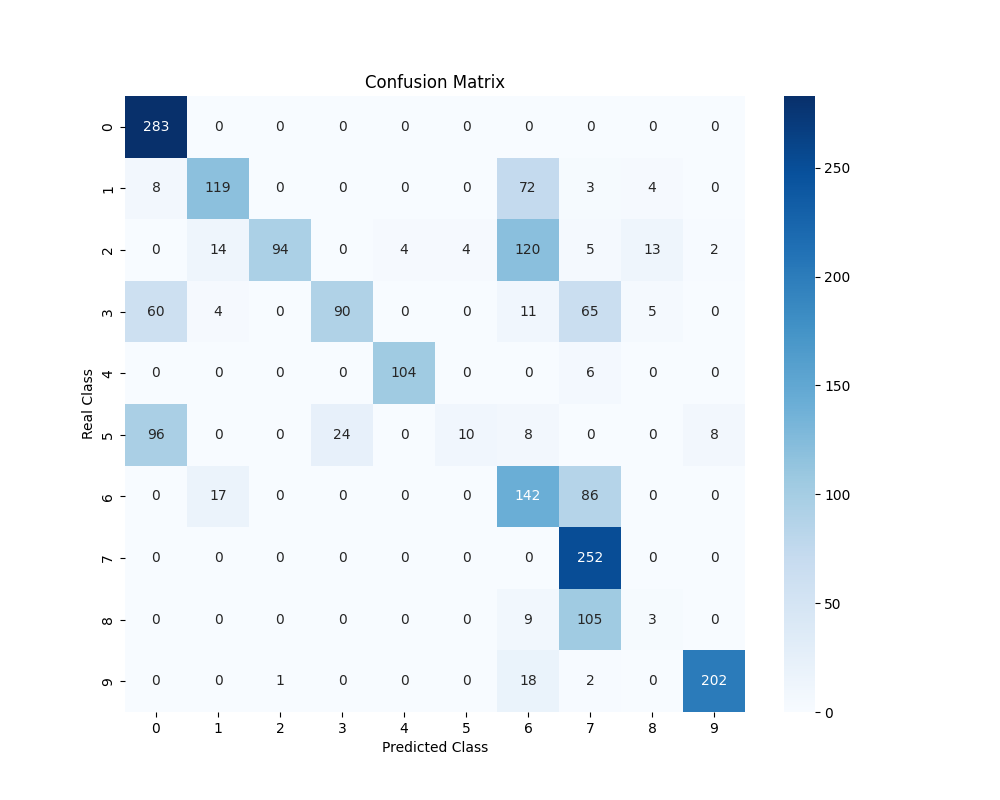
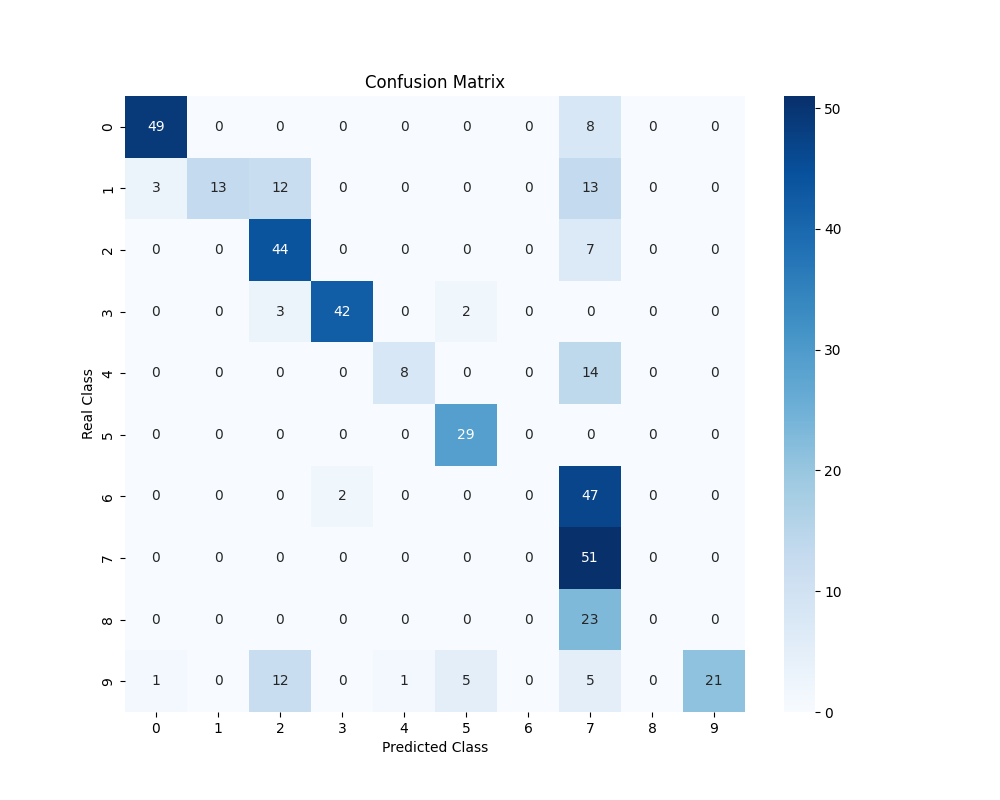
add summary, results, discussion and figures

diff --git a/project_report.md b/project_report.md
@@ -1,9 +1,8 @@
 # Horse Face Recognition
 
 ## Abstract
-- Brief overview of the project.
-- Key objectives, methods, and outcomes.
-- Summary of results and conclusions.
+- In this study horses are classified based on the face, to make RFID scanner obsolete.
+- The objective is to identify horses from our client Voskamp. This is done with a pre-trained Resnet CNN. The outcome is an accuracy of 62%. Based on CAM heatmaps it looks like the background is mostly responsible for the prediction.
 
 ---
 
@@ -60,6 +59,7 @@ Also on horse shows, it would be more beautiful to have horses without RFID tags
 - No Data augmentation techniques, such as flipping or rotation are used.
 - Data splitting strategy: 64% training, 16% validation, 20% test. Stratified.
 - Focused the get the models working on the first part (10 horses).
+- To speed up modelling, only 20% of stills are used.
 
 ### 3.5 Modeling
 - Used both Custom model (~ 8 layers) and ResNet model.
@@ -69,7 +69,9 @@ Also on horse shows, it would be more beautiful to have horses without RFID tags
   - Optimizer: using an Adam (Adaptive Moment Estimation) optimizer
   - Learning rate: Default learning rate of 0.001  (e.g., optimizer, learning rate, loss function).
   - Loss-function: Categorical crossentropy (ideal for multi-class classifiction)
-- Hyperparameter tuning: tried batch-size 32 up until 128
+- Hyperparameter tuning:
+  - tried batch-size 32 up until 128
+  - Used pre-trained model 'ImageNet'
 
 ### 3.6 Evaluation
 - Metrics used to evaluate performance: accuracy, precision.
@@ -92,34 +94,30 @@ Also on horse shows, it would be more beautiful to have horses without RFID tags
 ## 4. Results and Discussion
 
 ### 4.1 Results
-- Tabular and graphical representation of performance metrics.
-
+- Training Accuracy: 0.9633
+- Validation Accuracy: 0.6114
+- Test accuracy: **0.6193**
+![Model accuracy](/scripts/results/model_accuracy.png)
 ![Confusion Matrix](/data/confusion_matrix.png)
-
-- Confusion matrix, ROC curves, etc.
+![Grad-CAM](/scripts/results/grad_cam_2500.png)
 
 ### 4.2 Discussion
 - Analysis of results.
+  - The setting (background) contains the most changing pixels as seen in heatmaps.
+  - Overfitting, because validation accuracy is higher than training accuracy
 - Strengths and weaknesses of the model.
-- Comparisons to baseline or other existing models.
-- Impact of data quality and preprocessing on results.
+  - Only uses 20% of available images
+- Did not compare with small custom model, due to problems with CAM (Activation Map).
 
 ---
 
-## 5. Deployment
-
-Deployment is not implemented. Only testing on premise, on laptops.
-
----
-
-## 6. Conclusion
-- Summary of the project's accomplishments.
-- Key findings and their implications.
-- Limitations of the current approach.
+## 5. Conclusion
+- Our model could predict 62% of the horses, while using data of 10 horses.
+- Limitations: It looks like above results are more based on the background than on the horses itself.
 
 ---
 
-## 7. Recommendations and Future Work
+## 6. Recommendations and Future Work
 - Data collection: find a dataset with horses with diverse backgrounds.
 - Dataset augmentation:
   - Try removing the background of the horses
@@ -128,17 +126,14 @@ Deployment is not implemented. Only testing on premise, on laptops.
 - Use all 47 horses instead of only the first 10.
 - Test models like PetFace and ArcFace.
 - Use better hardware (GPU)
+- Investigate further based on the correlation matrix. Find out why some horses have better accuracy than others.
 - Use pre-trained ResNet model
 - Use metrics like recall and F1.
+- Check ROC curve with OvR or OvO
 
 ---
 
-## 8. References
+## 7. References
 - Dataset used: (https://ieee-dataport.org/open-access/thdd)
 
 ---
-
-## 9. Appendices *(if needed)*
-- Additional figures, charts, or tables.
-- Details of the codebase or scripts used.
-- Extended results (e.g., performance on subgroups).
